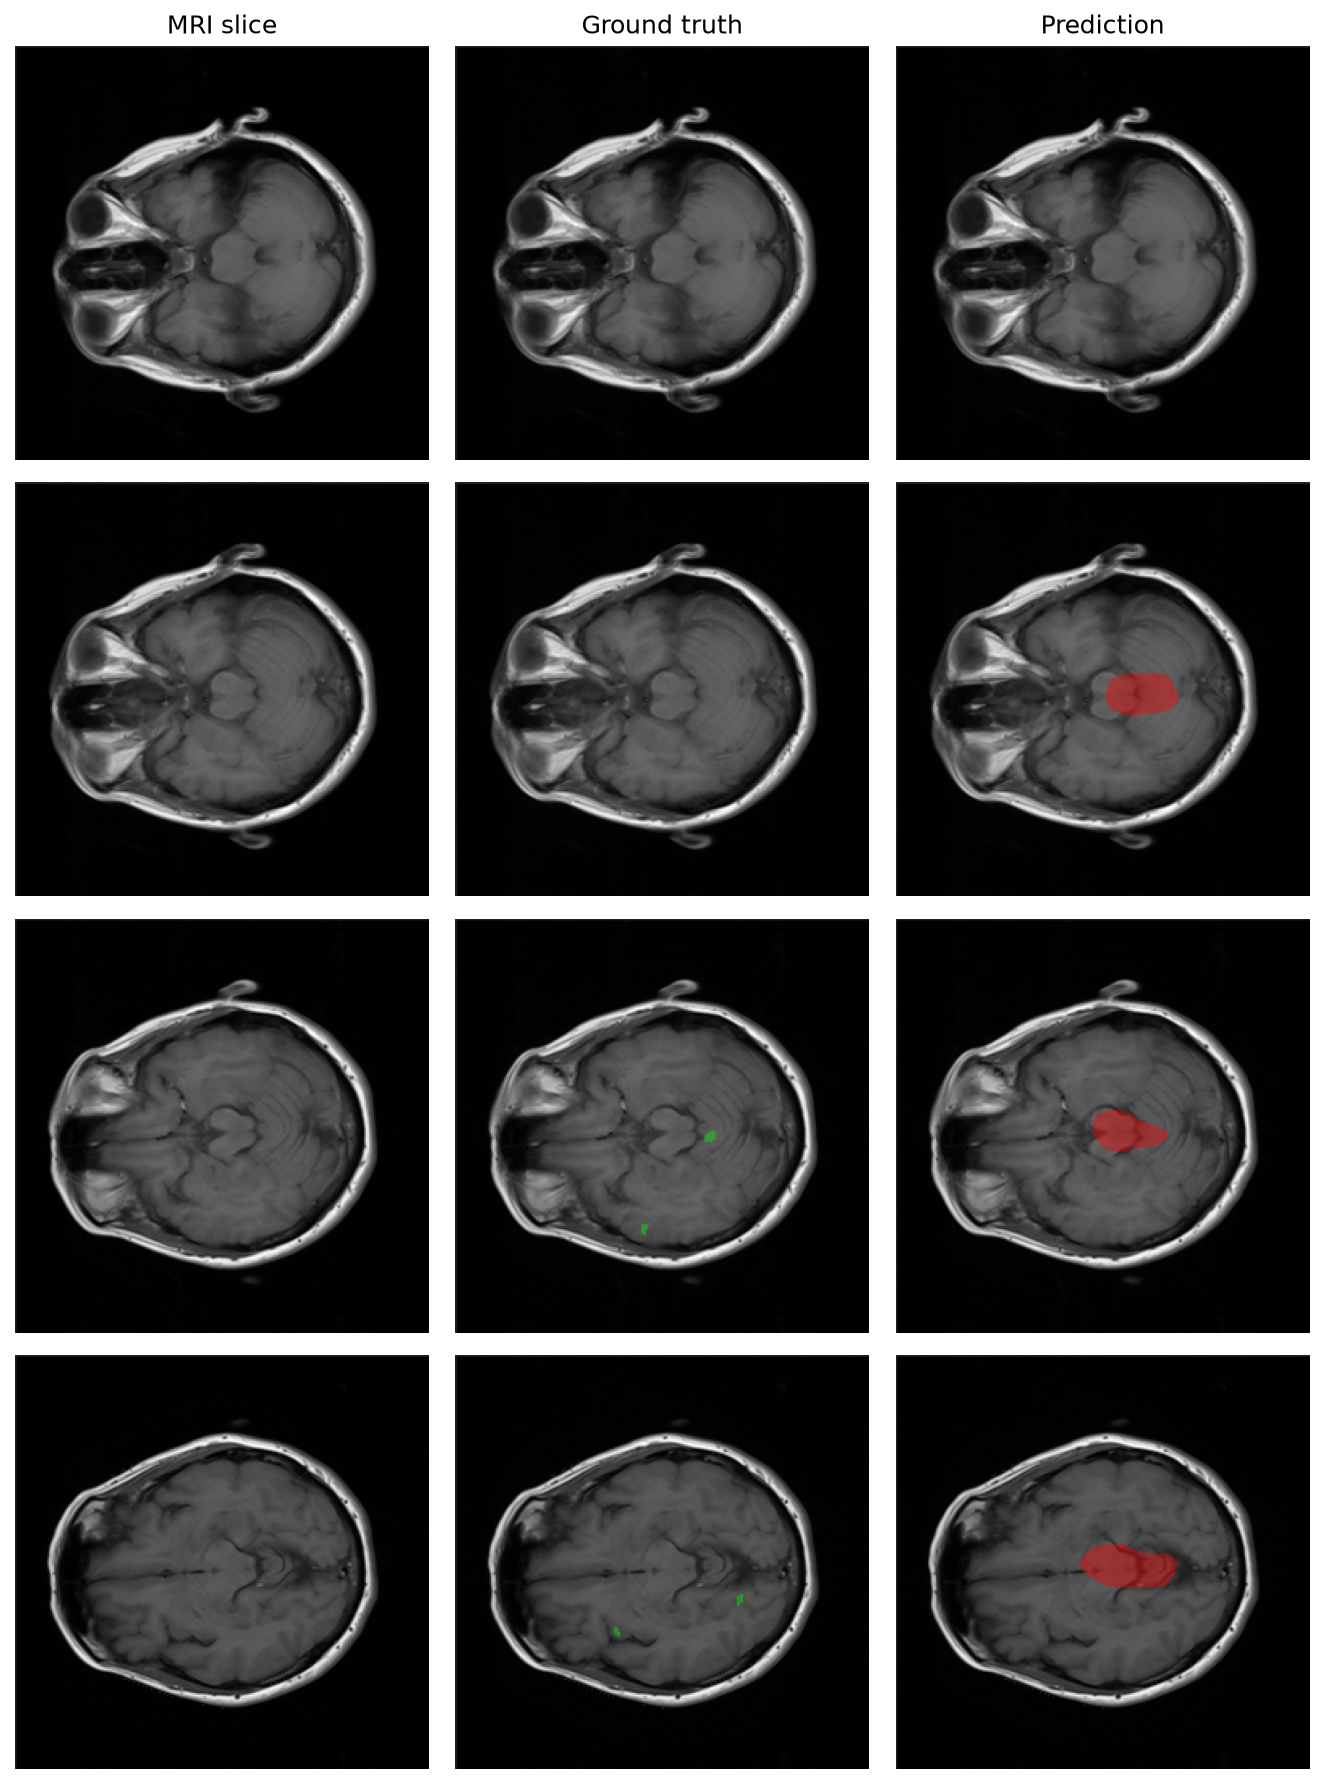
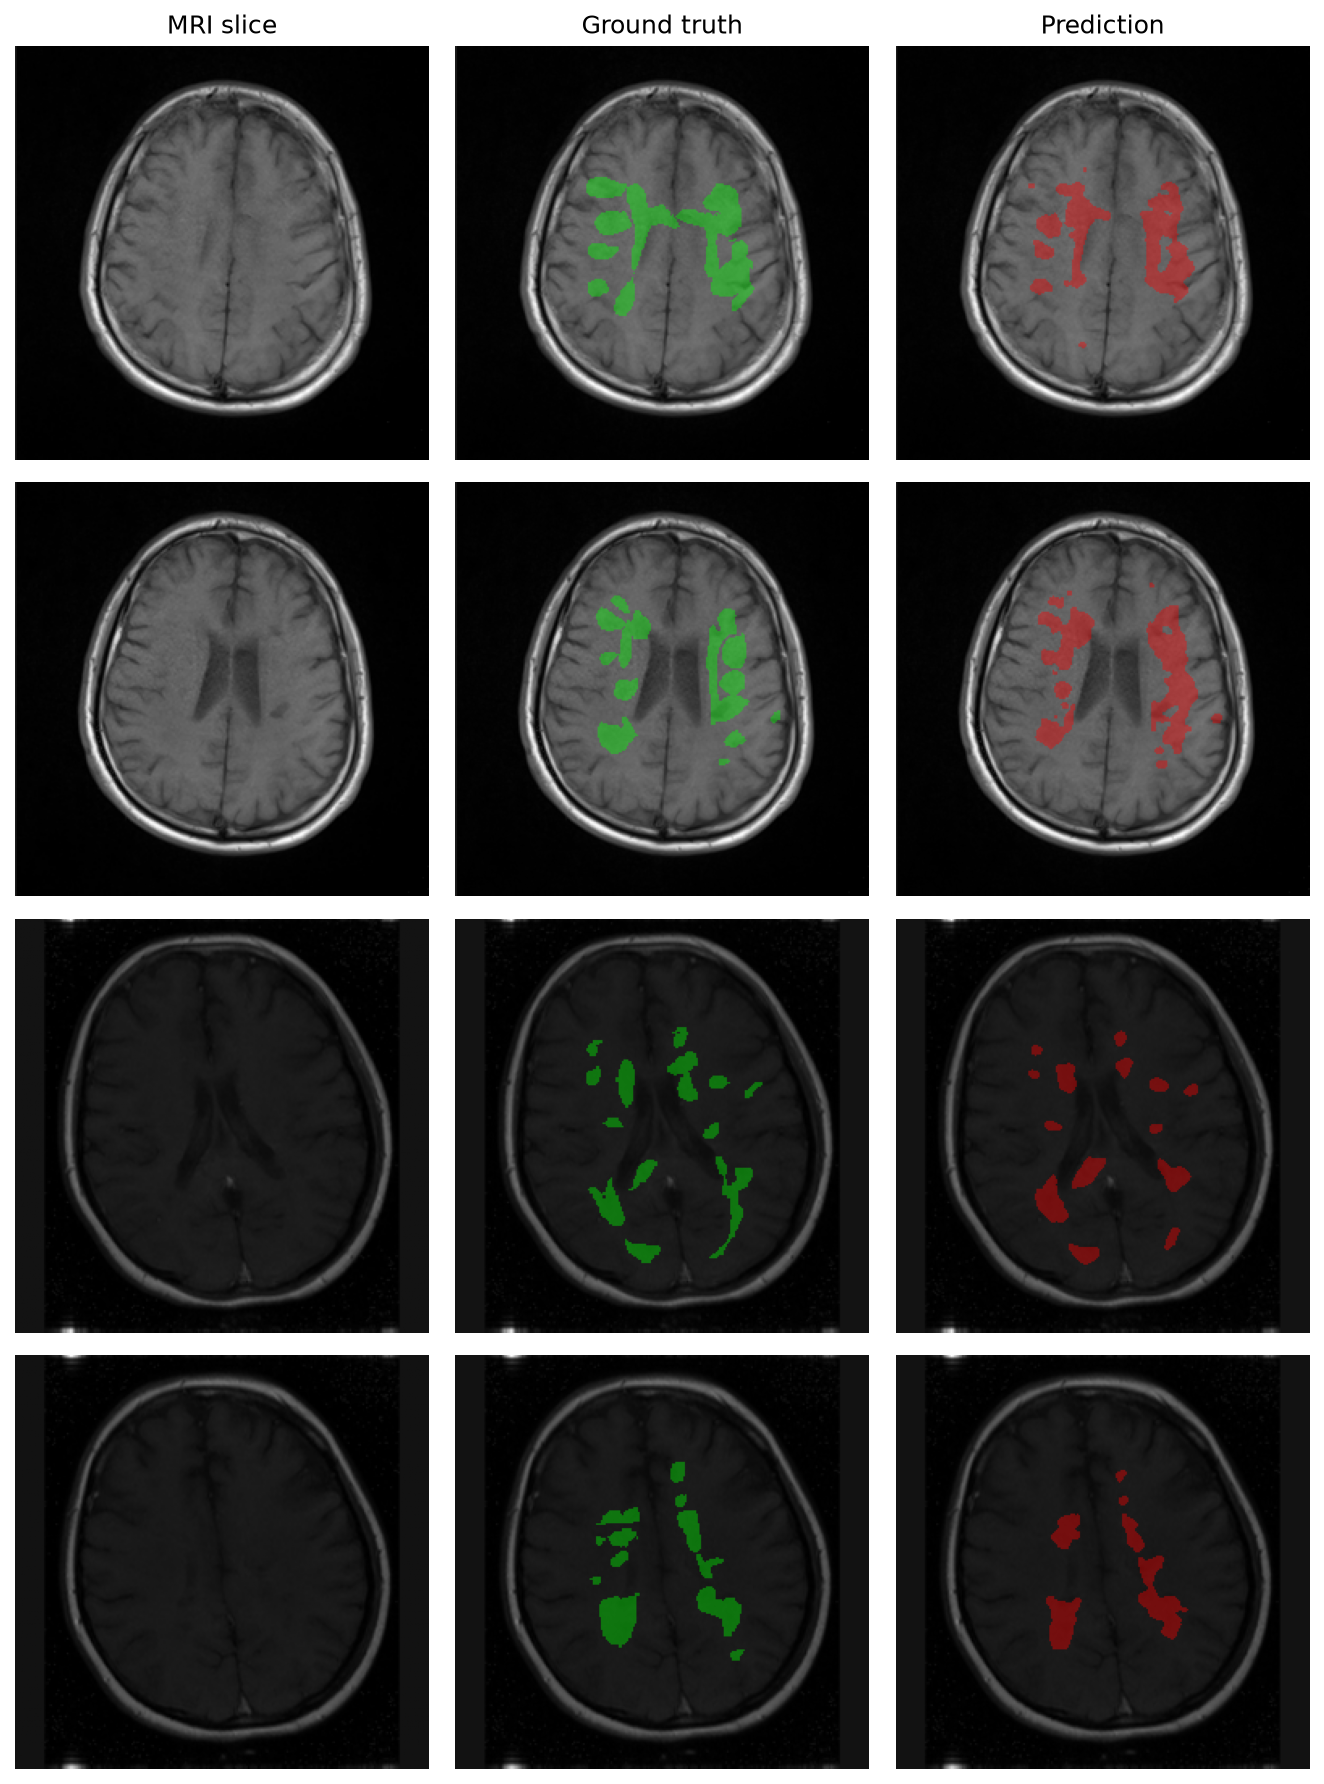
Fix preprocessing axis mismatch (nibabel vs sitk) + update prediction figure
preprocessing.py: when register=False, load volumes with nibabel (X,Y,Z
convention) matching the mask. The sitk.ReadImage path introduced for Exp 5
returned (Z,Y,X) and moveaxis gave (Y,X,Z) — transposing every axial slice
relative to the nibabel-loaded mask. Image/label misalignment caused training
Dice to collapse to ~0.21 regardless of N4 or epochs.

evaluate.py: pick the 4 slices with most GT lesion pixels for the prediction
figure instead of the first batch with any lesion.

Retrained 5 folds with fixed data: mean Dice 0.534 +/- 0.105.
Fold 1 init was unlucky (0.352); folds 0/2/3/4 are in expected range.

diff --git a/src/data/preprocessing.py b/src/data/preprocessing.py
@@ -199,43 +199,60 @@ def load_patient_volumes(
     modalities = modalities or list(MODALITY_KEYWORDS.keys())
     reference_modality = reference_modality if reference_modality in modalities else modalities[0]
 
-    raw_sitk: dict[str, sitk.Image] = {}
-    for modality in modalities:
-        path = _find_file(patient_dir, MODALITY_KEYWORDS[modality], exclude=MASK_KEYWORDS)
-        if path is None:
-            raise FileNotFoundError(f"Could not find '{modality}' volume in {patient_dir}")
-        # ReadImage preserves spacing, origin, and direction cosines — required for correct
-        # inter-modality registration when FOVs or origins differ across modalities.
-        img = sitk.ReadImage(str(path), sitk.sitkFloat32)
-        if bias_correct:
-            img = _n4_bias_correct_sitk(img)
-        raw_sitk[modality] = img
-
     mask_path = _find_mask_file(patient_dir, reference_modality)
     if mask_path is None:
         raise FileNotFoundError(f"Could not find lesion mask in {patient_dir}")
     mask = (np.asarray(nib.load(str(mask_path)).dataobj) > 0).astype(np.uint8)
 
-    fixed_sitk = raw_sitk[reference_modality]
-    # sitk.GetArrayFromImage returns (Z, Y, X); convert to nibabel convention (X, Y, Z)
-    # so the rest of the pipeline can slice with volume[:, :, z] unchanged.
-    ref_arr = np.moveaxis(sitk.GetArrayFromImage(fixed_sitk).astype(np.float32), 0, -1)
-    fixed_shape_nib = ref_arr.shape  # (H, W, Z) in nibabel convention
+    if not register:
+        # Nibabel path: preserves (X, Y, Z) axis order matching the mask convention.
+        # N4 is applied on numpy arrays (no spatial metadata needed for intensity correction).
+        raw_nib: dict[str, np.ndarray] = {}
+        for modality in modalities:
+            path = _find_file(patient_dir, MODALITY_KEYWORDS[modality], exclude=MASK_KEYWORDS)
+            if path is None:
+                raise FileNotFoundError(f"Could not find '{modality}' volume in {patient_dir}")
+            vol = np.asarray(nib.load(str(path)).dataobj, dtype=np.float32)
+            if bias_correct:
+                vol = _n4_bias_correct(vol)
+            raw_nib[modality] = vol
 
-    volumes: dict[str, np.ndarray] = {}
+        ref_shape = raw_nib[reference_modality].shape  # (X, Y, Z)
+        volumes: dict[str, np.ndarray] = {}
+        for modality, vol in raw_nib.items():
+            if vol.shape == ref_shape:
+                volumes[modality] = vol
+            else:
+                zoom_factors = [t / s for t, s in zip(ref_shape, vol.shape)]
+                volumes[modality] = nd_zoom(vol, zoom_factors, order=1)
+        volumes["mask"] = mask
+        return volumes
+
+    # Registration path: sitk.ReadImage preserves spacing/origin/direction for Euler3D alignment.
+    # sitk.GetArrayFromImage returns (Z, Y, X); np.moveaxis converts to nibabel (X, Y, Z).
+    raw_sitk: dict[str, sitk.Image] = {}
+    for modality in modalities:
+        path = _find_file(patient_dir, MODALITY_KEYWORDS[modality], exclude=MASK_KEYWORDS)
+        if path is None:
+            raise FileNotFoundError(f"Could not find '{modality}' volume in {patient_dir}")
+        img = sitk.ReadImage(str(path), sitk.sitkFloat32)
+        if bias_correct:
+            img = _n4_bias_correct_sitk(img)
+        raw_sitk[modality] = img
+
+    fixed_sitk = raw_sitk[reference_modality]
+    ref_arr = np.moveaxis(sitk.GetArrayFromImage(fixed_sitk).astype(np.float32), 0, -1)
+    fixed_shape_nib = ref_arr.shape  # (X, Y, Z) in nibabel convention
+
+    volumes = {}
     for modality, img in raw_sitk.items():
         if img.GetSize() == fixed_sitk.GetSize():
             arr = sitk.GetArrayFromImage(img).astype(np.float32)
             volumes[modality] = np.moveaxis(arr, 0, -1)
-        elif register:
+        else:
             resampled = _register_sitk(img, fixed_sitk)
             arr = sitk.GetArrayFromImage(resampled).astype(np.float32)
             volumes[modality] = np.moveaxis(arr, 0, -1)
-        else:
-            arr = sitk.GetArrayFromImage(img).astype(np.float32)
-            arr_nib = np.moveaxis(arr, 0, -1)  # (H, W, Z)
-            zoom_factors = [t / s for t, s in zip(fixed_shape_nib, arr_nib.shape)]
-            volumes[modality] = nd_zoom(arr_nib, zoom_factors, order=1)
     volumes["mask"] = mask
     return volumes
 

diff --git a/src/evaluate.py b/src/evaluate.py
@@ -42,7 +42,8 @@ def evaluate_fold(fold_idx: int, val_ids: list, index_df: pd.DataFrame, cfg: dic
     val_loader = DataLoader(val_ds, batch_size=cfg["train"]["batch_size"], shuffle=False, num_workers=0)
 
     metric_sums, n_batches = None, 0
-    sample_batch = None
+    # Accumulate all slices to pick the ones with the most lesion pixels for the figure
+    all_images, all_gt, all_pred, all_lesion_px = [], [], [], []
     with torch.no_grad():
         for batch in val_loader:
             images = batch["image"].to(device)
@@ -56,16 +57,26 @@ def evaluate_fold(fold_idx: int, val_ids: list, index_df: pd.DataFrame, cfg: dic
                 metric_sums[k] += v
             n_batches += 1
 
-            if sample_batch is None:
-                gt_np = masks.cpu().numpy()[:, 0]
-                if gt_np.any():  # prefer a batch that contains at least one lesion slice
-                    sample_batch = {
-                        "images": images.cpu().numpy(),
-                        "gt": gt_np,
-                        "pred": (torch.sigmoid(logits) > 0.5).float().cpu().numpy()[:, 0],
-                    }
+            gt_np = masks.cpu().numpy()[:, 0]          # (B, H, W)
+            pred_np = (torch.sigmoid(logits) > 0.5).float().cpu().numpy()[:, 0]
+            img_np = images.cpu().numpy()               # (B, C, H, W)
+            lesion_px = gt_np.reshape(len(gt_np), -1).sum(axis=1)  # lesion voxels per slice
+            for b in range(len(gt_np)):
+                all_images.append(img_np[b])
+                all_gt.append(gt_np[b])
+                all_pred.append(pred_np[b])
+                all_lesion_px.append(lesion_px[b])
 
     avg_metrics = {k: v / n_batches for k, v in metric_sums.items()}
+
+    # Pick the 4 slices with the most ground-truth lesion pixels for the example figure
+    import numpy as _np
+    order = _np.argsort(all_lesion_px)[::-1][:4]
+    sample_batch = {
+        "images": _np.stack([all_images[i] for i in order]),
+        "gt": _np.stack([all_gt[i] for i in order]),
+        "pred": _np.stack([all_pred[i] for i in order]),
+    }
     return avg_metrics, sample_batch
 
 